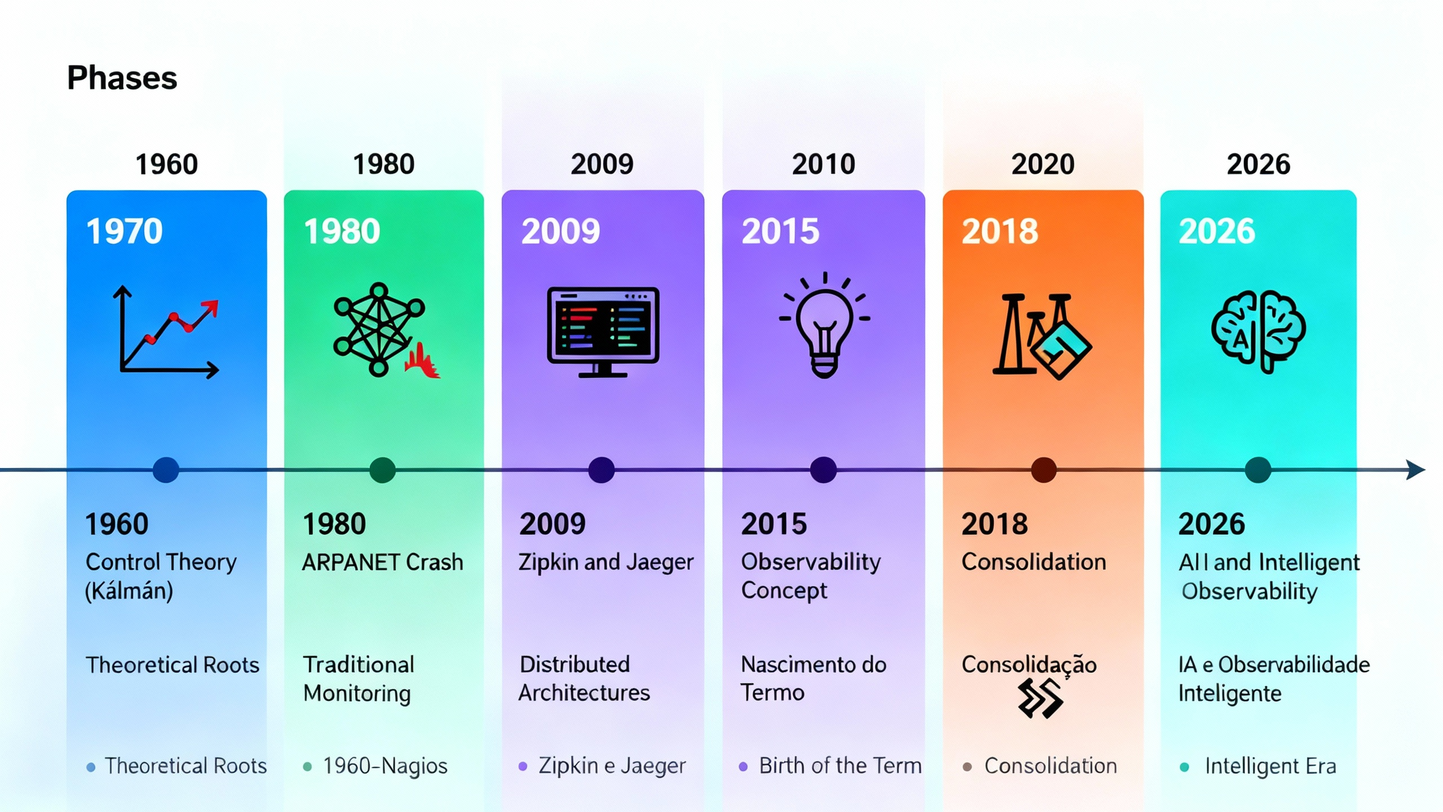
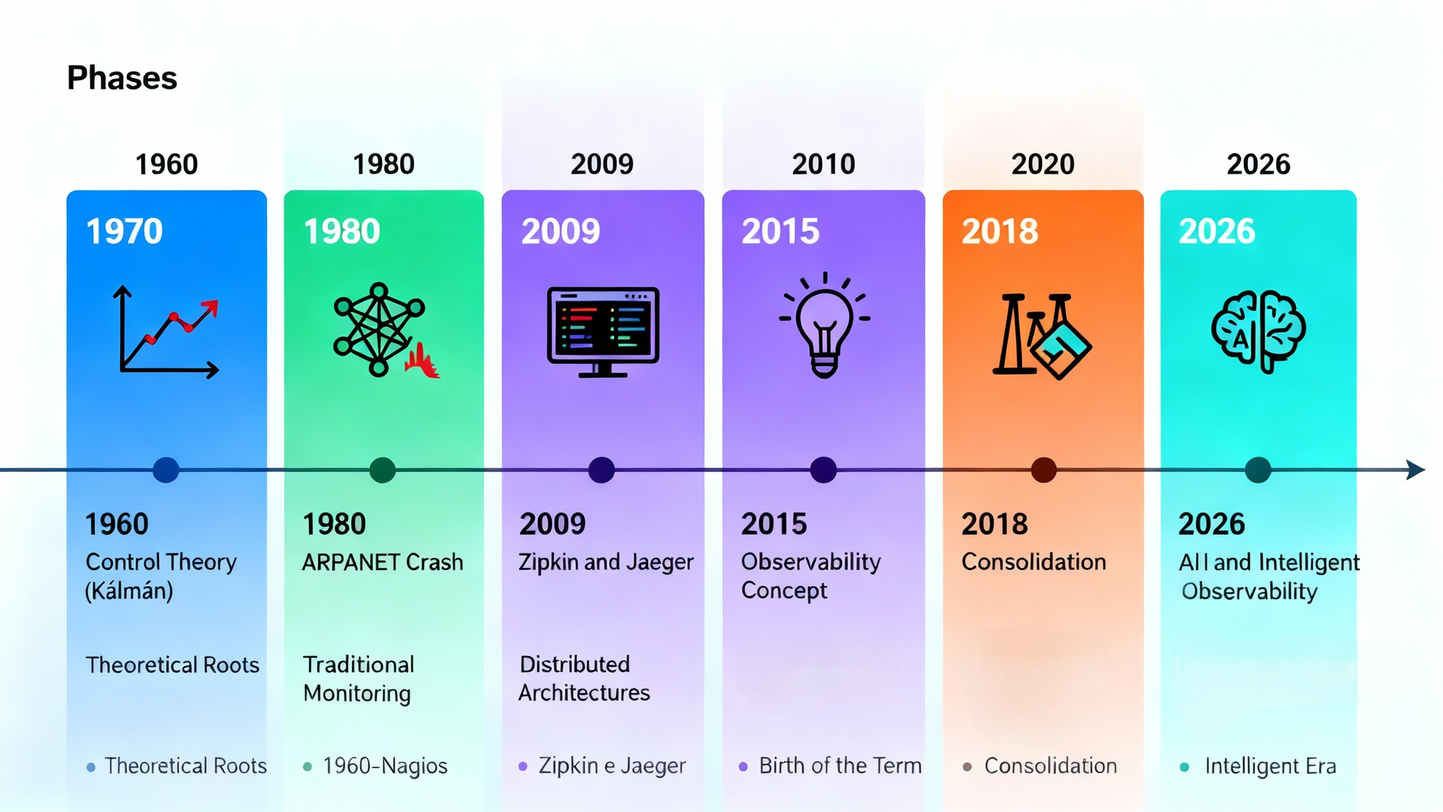
Reordenacao dos capitulos de acordo com as correcoes propostas.

Changed region(s): [[0.8125, 0.8125, 0.9688, 0.875], [0.5, 0.8125, 0.625, 0.875], [0.6562, 0.8125, 0.75, 0.875]]

diff --git a/chapters/03.obs_related_work/sections/01_methodology.tex b/chapters/03.obs_related_work/sections/01_methodology.tex
@@ -1,0 +1,67 @@
+\section{Rapid Review}
+\label{sec:rapid-review}
+
+To map how the industry and academia are addressing this analytical shift in Kubernetes-based environments, we conducted a Rapid Review. Rapid Reviews are secondary studies designed to provide timely research evidence to support decision-making in practical environments, offering a structured approach without the exhaustive timeline of a full Systematic Literature Review \cite{cartaxo_2018}.
+
+\subsection{Rapid Review Protocol}
+
+Rapid Reviews (RRs) are secondary studies designed to provide timely research evidence to support decision-making in practical environments \cite{cartaxo_2018}. RRs are conducted considering constraints inherent to practical environments, such as time and effort, thus delivering evidence more promptly and at lower costs, often communicated through accessible mediums.
+
+This approach is particularly suitable for our study, as it aims to swiftly synthesize scientific evidence on the rapidly evolving field of observability in cloud-native applications without compromising systematic rigor. An RR complements Systematic Reviews (SRs) by filling an essential gap in promoting evidence-based, practice-oriented software engineering for urgent research questions.
+
+Similar to SRs, this Rapid Review consisted of three main phases: planning, performing, and reporting. These phases are detailed in the following subsections.
+
+The execution of this Rapid Review, initially published as an independent study \cite{silva_2026}, served as the foundational investigative step for this thesis. It is imperative to highlight the structural alignment between the research questions of this review (RQ01--RQ04) and the Secondary Research Questions (SRQ) of this doctoral research:
+
+\begin{itemize}
+    \item \textbf{Theoretical Foundation (RQ01 and RQ03 $\rightarrow$ SRQ1):} The investigation into essential components (RQ01) and specific open-source tools (RQ03) provided the necessary literature backing to answer the thesis's SRQ1, effectively defining the required technological stack (Metrics, Logs, and Traces via CNCF tools) for the experimental environment.
+    \item \textbf{Gap Identification and Modeling (RQ02 and RQ04 $\rightarrow$ SRQ4):} The search for existing reference architectures (RQ02) and the subsequent identification of fragmentation gaps (RQ04) directly addressed the thesis's SRQ4. The realization that the industry lacks a unified framework culminated in the proposition of the Observability Maturity Model (OMM).
+\end{itemize}
+
+Ultimately, while this Rapid Review answers the theoretical constraints of the domain, it acts as the springboard for the practical contributions of this thesis (SRQ2 and SRQ3)—specifically, the instantiation of the PANOPTES architecture and its empirical validation.
+
+\subsection{Planning Phase}
+In the planning phase, we followed a detailed protocol for this Rapid Review, as established by Cartaxo \textit{et al.} \cite{cartaxo_2018}. This protocol encompassed the formulation of the research problem, the specific research questions (RQs), the search strategy, the selection criteria, and the data extraction procedure. The online tool Parsifal was utilized to systematically compile and manage all aspects of this protocol, ensuring transparency and adherence to a predefined methodology.
+
+Cloud-native environments, characterized by microservices, containers, and dynamic orchestration (e.g., Kubernetes), inherently generate an exponentially growing volume, variety, and velocity of telemetry data (logs, metrics, traces, and events). Managing, processing, and storing this vast amount of raw data becomes economically prohibitive and technically unfeasible. As highlighted by \cite{sridharan_2018}, this exponential growth in data significantly constrains a system's capacity to process information and to deal effectively with ``unknown unknowns,'' necessitating robust observability solutions.
+
+\subsection{Research Questions}
+The goal of this study is to identify the state of the art in observability of Kubernetes-based cloud-native applications and investigate the open-source tools and architectural patterns deployed to achieve the degree of observability proposed in the literature. To guide this Rapid Review, the following research questions were formulated:
+
+\begin{itemize}
+    \item \textbf{RQ01:} What are the essential components of an observability architecture for Kubernetes-based cloud-native applications?
+    \item \textbf{RQ02:} What reference architectures or observability frameworks for Kubernetes-based cloud-native environments have been proposed in the literature?
+    \item \textbf{RQ03:} What open-source tools are used or recommended to implement the different components of a Kubernetes-based observability architecture for cloud-native applications?
+    \item \textbf{RQ04:} What research gaps and future directions have been identified in the literature on open-source observability architectures for Kubernetes-based cloud-native applications?
+\end{itemize}
+
+\subsection{Performing Phase}
+The performing phase involved the systematic execution of the search and study selection procedures as defined in the planning phase. The literature search was primarily conducted using four leading scientific databases known for their extensive coverage in Computer Science and Software Engineering: IEEE Xplore, ACM Digital Library, SpringerLink, and ScienceDirect. These databases were selected for their relevance to cloud computing, distributed systems, and software observability. The temporal scope of the search was set from January 2018 to October 2025, with a focus on recent developments in the field.
+
+The search string, carefully constructed and adapted for each database's specific syntax using the filter full-text, was:
+
+\begin{quote}
+\textbf{Search String:} (``cloud native" OR ``cloud-native'' OR ``microservices") AND (``observability'' OR ``monitoring'' OR ``tracing'' OR ``logging'' OR ``metrics'' OR ``events'') AND (``kubernetes" OR ``k8s'') AND (``open source" OR ``open-source'')
+\end{quote}
+
+Initial searches identified seminal works such as \cite{kosinska_2023} and \cite{usman_2022}, which served as starting points for a complementary forward and backward citation analysis to identify additional relevant studies. Furthermore, an AI-powered literature discovery tool (Research Rabbit) was used to expand the literature search through intelligent recommendation algorithms, efficiently identifying related works and emerging topics based on the initial relevant papers.
+
+The identified studies underwent a multi-stage selection process based on predefined Inclusion and Exclusion Criteria. The study selection process consists of three distinct stages: initial screening, full-text review, and conflict resolution. Initially, titles and abstracts were reviewed by a single researcher to assess their potential relevance. In the second stage, studies that passed the initial screening proceeded to full-text review to confirm their direct relevance to the research questions and ensure full compliance with all criteria. In the third case, when uncertainty or disagreement arose during the full-text review, a second researcher was consulted to resolve conflicts and make a final decision on inclusion.
+
+Six inclusion criteria (IC) were used: \textbf{IC01} - Primary focus on Observability for software systems; \textbf{IC02} - Context related to cloud-native applications or microservices; \textbf{IC03} - Discussion of Kubernetes as the orchestration platform; \textbf{IC04} - Focus on open-source observability tools or architectures; \textbf{IC05} - Articles published from January 2018 to October 2025; \textbf{IC06} - Articles written in English.
+
+Similarly, six exclusion criteria (EC) were used: \textbf{EC01} - Duplicated papers; \textbf{EC02} - Gray literature (e.g., blog posts, pre-prints without peer review, company whitepapers); \textbf{EC03} - Focus exclusively on monitoring without addressing observability concepts; \textbf{EC04} - Studies where observability is only tangentially mentioned or not a primary contribution; \textbf{EC05} - Articles exclusively discussing proprietary or closed-source solutions without comparison to open-source alternatives; \textbf{EC06} - Books, book chapters, theses, dissertations, and short papers (e.g., extended abstracts, posters).
+
+For each selected study, data relevant to the research questions were systematically extracted by one researcher and validated by another using the Parsifal online tool. The following information was collected: \textbf{for RQ01:} Definitions of essential architectural components, layers of observability (e.g., data types, functional capabilities, instrumentation levels). \textbf{For RQ02}, descriptions of proposed architectural patterns, frameworks, or significant architectural considerations. \textbf{For RQ03}, the identification of specific open-source tools, their functionalities, and their application within Kubernetes-based environments. Finally, \textbf{for RQ04}, identified research challenges, gaps, and future directions related to open-source observability. This structured approach ensured consistency and scientific rigor in the data collection process.
+
+\subsection{Findings and Architectural Gaps}
+
+The rapid review revealed critical insights into the current landscape of cloud-native observability. Table \ref{tab:related_works} summarizes the primary studies analyzed and their respective identified gaps and proposed future works.
+
+\input{chapters/03.obs_related_work/tables/tbl-related-works}
+
+A significant finding from this review is the scarcity of widely adopted, formal reference architectures specifically tailored for the dynamic nature of Kubernetes. While academic research has proposed structured life cycles \cite{araujo_2024}, there is a distinct lack of proposals that adequately manage the simultaneous collection and correlation of metrics, logs, and traces in an integrated manner without excessive overhead.
+
+Instead, a ``de facto'' pattern has emerged driven by the integration of specific open-source tools. OpenTelemetry has become the industry standard for unified instrumentation \cite{kosinska_2023}. Meanwhile, specific tools dominate their respective pillars: Prometheus for metrics, Loki or Fluentd for logging, and Jaeger or Tempo for distributed tracing \cite{usman_2022}.
+
+However, the literature unanimously warns that these tools are rarely ``plug-and-play''. This fragmentation imposes significant operational complexity on engineering teams, who must manually manage configurations and data correlation, highlighting the critical gap that the PANOPTES reference architecture proposed in this thesis aims to bridge.

diff --git a/chapters/03.obs_related_work/tables/tbl-related-works.tex b/chapters/03.obs_related_work/tables/tbl-related-works.tex
@@ -1,0 +1,48 @@
+\begin{table*}[!ht]
+\centering
+\caption{Analysis of Related Works and Primary Studies Cited}
+\label{tab:related_works}
+\footnotesize
+% As larguras somam ~0.91\textwidth, deixando espaço para o padding (tabcolsep)
+\begin{tabular}{p{0.15\textwidth} p{0.38\textwidth} p{0.38\textwidth}}
+\toprule
+\textbf{Ref.} & \textbf{Research Gaps and Limitations found} & \textbf{Future Works} \\ \midrule
+
+\cite{usman_2022} &
+Absence of formal reference architecture, operational complexity of fragmentation, telemetry limitations, and scalability and correlation challenges. & 
+Intelligent Automation via AI/ML, Security integration, Enhancing Developer Experience, and Unified Observability Platforms. \\ \addlinespace
+
+\cite{araujo_2024} &
+Lack of holistic reference architectures, resource constraints (overhead) in fog nodes, and high heterogeneity of edge devices. & 
+Lightweight AI/ML for local anomaly detection (TinyML), standardized interoperability protocols, and adaptive observability frameworks. \\ \addlinespace
+
+\cite{zanatta_23} &
+Fragmented focus on metrics over logs/traces in 5G research, high memory/CPU overhead of standard CNOT stacks, and lack of standardized log structures. & 
+Integration of distributed tracing, research on geographically distributed B5G setups, scalability analysis of COTS ML, and observability in Open RAN components. \\ \addlinespace
+
+\cite{kosinska_2023} &
+Lack of unified terminology, insufficient practical automation via AI/ML (AIOps gap), and poor adaptation of tools for edge computing environments. & 
+Development of observability maturity models, deeper integration with eBPF for low-overhead visibility, and alignment with FinOps and GreenOps. \\ \addlinespace
+
+\cite{faseeha_2025} &
+Conceptual confusion between monitoring and observability pillars, lack of practical multi-pillar approaches, and difficulties in tracing failures in highly dynamic environments. & 
+Evolution of frameworks for modern deployment paradigms (service mesh, event-driven), automation of data analysis, and optimization of observability overhead. \\ \addlinespace
+
+\cite{han_2024} &
+Inconsistent problem definitions for RCA and high cloud-native heterogeneity across traces, metrics, and logs. & 
+Improving multi-modal data correlation at scale and enhancing Graph Attention Networks for dynamic topologies. \\ \addlinespace
+
+\cite{gomes_2025} &
+Difficulty in correlating multi-modal data (metrics, logs, traces), inadequacy of traditional monitoring for sophisticated CNAs, and complex root cause analysis (RCA) in distributed environments. & 
+Advanced ML-based resource management, automated diagnostic mechanisms integrated with auto-scaling, and research on low-overhead real-time data collection. \\ \addlinespace
+
+Wei et al. \cite{wei_2025} &
+Lack of a systematic bridge between desirable system qualities and the concrete cloud-native practices and tools used to achieve them, and the initial validation scope is limited (expert-based, not covering all contexts). &
+Provide mechanisms/interfaces to extend and continuously evolve the map (keeping practices/tools up to date) and perform broader validations beyond the initial expert review. \\ \addlinespace
+
+\cite{deng_2024} &
+Missing clear research roadmap for cloud-native lifecycles, high cognitive load for developers (DevEx), and insufficient real-time security observability. & 
+Integration of SecOps with performance telemetry, improvement of Developer Experience (DevEx), and observability optimization for serverless and green computing. \\ \bottomrule
+\end{tabular}
+  \par\medskip\ABNTEXfontereduzida\selectfont\textbf{Fonte:} Written by author (2026) \par\medskip
+\end{table*}

diff --git a/appendix/apendiceB.tex b/appendix/apendiceB.tex
@@ -9,7 +9,7 @@ This appendix presents the Ansible playbooks developed to automate the determini
 The following code presents the automated tasks for instantiating the target application (\textit{Online Boutique}) and the fault injection tool (\textit{Chaos Mesh}) in the vanilla Kubernetes cluster (Scenario 1). The injection of the \texttt{KUBECONFIG} environment variable was stipulated to ensure the correct authentication of the Helm package manager with the K3s API.
 
 % Importa o arquivo YAML diretamente do diretorio do cenario 1
-\lstinputlisting[language=bash, caption={Ansible playbook for the automated deployment of the Vanilla Scenario.}, label={lst:deploy-baseline}]{chapters/05.experiment/code/scenario01/deploy-baseline.yml}
+\lstinputlisting[language=bash, caption={Ansible playbook for the automated deployment of the Vanilla Scenario.}, label={lst:deploy-baseline}]{chapters/06.experiment/code/scenario01/deploy-baseline.yml}
 
 \section{PANOPTES Deployment Playbook (deploy-panoptes.yml)}
 \label{sec:playbook-panoptes}
@@ -17,4 +17,4 @@ The following code presents the automated tasks for instantiating the target app
 Building upon the baseline, the following playbook defines the Infrastructure as Code (IaC) required to deploy the complete PANOPTES observability architecture (Scenario 2). In addition to the target application and fault injection mechanism, it automates the provisioning of the telemetry stack, including the OpenTelemetry Operator, Prometheus, Loki, and Tempo. This approach guarantees that the observability agents and their respective data backends are deployed deterministically before any fault injection or overhead measurement takes place.
 
 % Importa o arquivo YAML diretamente do diretorio do cenario 2
-\lstinputlisting[language=bash, caption={Ansible playbook for the automated deployment of the PANOPTES Observability Scenario.}, label={lst:deploy-panoptes}]{chapters/05.experiment/code/scenario02/deploy-panoptes.yml}
+\lstinputlisting[language=bash, caption={Ansible playbook for the automated deployment of the PANOPTES Observability Scenario.}, label={lst:deploy-panoptes}]{chapters/06.experiment/code/scenario02/deploy-panoptes.yml}

diff --git a/chapters/03.obs_related_work/related.tex b/chapters/03.obs_related_work/related.tex
@@ -1,0 +1,22 @@
+\chapter{STATE OF THE ART: A RAPID REVIEW ON CLOUD-NATIVE OBSERVABILITY}
+\label{chap:related-work}
+
+As detailed in Chapter \ref{chap:observability} and illustrated in Figure \ref{fig:cna-obs-evo}, the landscape of cloud-native observability has undergone significant evolution over the years. While numerous tools have been developed to tackle isolated observability concerns, there is a distinct lack of cohesive efforts to unify them into a comprehensive architecture. The most mature initiative to date is driven by the Cloud Native Computing Foundation (CNCF) \cite{cncf_2026}, which accepted the OpenTelemetry project in 2019 and formally promoted it to a graduated maturity level in 2026.
+
+\begin{figure}[ht]
+    \centering
+    \includegraphics[width=1.0\linewidth]{images/observability/cloud_native_observability_evolution.png}
+    \caption{Cloud Native Observability Evolution}
+    \label{fig:cna-obs-evo}
+\end{figure}
+
+To understand this panoram and ensure the scientific rigor required for a doctoral thesis and to systematically map the solution space regarding cloud-native observability, a Rapid Review (RR) of the literature was conducted. 
+
+Unlike traditional ad-hoc literature reviews, a Rapid Review provides a structured, replicable protocol to synthesize evidence promptly without compromising systematic rigor \cite{cartaxo_2018}. By mapping the state of the art, this chapter identifies the exact boundaries of current open-source implementations and theoretically justifies the architectural gaps that this thesis aims to bridge.
+
+This chapter details the methodology applied, analyzes the primary studies identified across four major scientific databases, proposes an Observability Maturity Model (OMM) based on the identified gaps, and explicitly positions the proposed PANOPTES architecture within the current research landscape.
+
+\input{chapters/03.obs_related_work/sections/01_methodology}
+\input{chapters/03.obs_related_work/sections/02_analysis_studies}
+\input{chapters/03.obs_related_work/sections/03_observatility_maturity_model}
+\input{chapters/03.obs_related_work/sections/04_panoptes_positioning}

diff --git a/chapters/04.cloud_computing/subsections/k8s/instrumentation_levels.tex b/chapters/04.cloud_computing/subsections/k8s/instrumentation_levels.tex
@@ -1,0 +1,14 @@
+\subsection{Instrumentation Levels}
+\label{subsec:instrumentation-levels}
+
+Considering the existence of multiple levels of instrumentation, it is possible to implement the instrumentation process across several components, i.e., from the application level to the platform level, where Kubernetes (k8s) is installed.
+
+The first level is referred to as the code/application level. In this level, instrumentation is implemented directly in the application's source code. Developers use language-specific libraries or SDKs (Software Development Kits) (e.g., OpenTelemetry SDK, Micrometer, Prometheus Client Libraries) to define and expose metrics, create structured logs, and initiate/propagate tracing spans.
+
+The second level is the platform level. This level abstracts network instrumentation away from the application. A sidecar proxy (e.g., Envoy, Linkerd) is injected into each application pod. This proxy intercepts all network traffic (incoming and outgoing) from the application container. Service Mesh (e.g., Istio) manages and configures these proxies to collect telemetry in a standardized way.
+
+The third level is the host/node level. A software agent runs as a DaemonSet (one instance per cluster node). This agent collects metrics and logs from the node's operating system and running containers, typically reading information from virtual file systems such as Prometheus Node Exporter and cAdvisor.
+
+The final level is the kernel level. The extended Berkeley Packet Filter (eBPF) is a Linux kernel technology that enables programs to run safely and efficiently in a sandbox within the kernel itself. Without altering application or kernel code, these programs can hook into low-level instrumentation points, such as system calls, network functions, and process scheduler events. Therefore, it can be classified as an instrumentation at the kernel level in Linux \cite{rise_2023}.
+
+In the next section, we will explore the importance and the benefits of declaring infrastructure using a declarative approach.

diff --git a/chapters/04.cloud_computing/cloud.tex b/chapters/04.cloud_computing/cloud.tex
@@ -3,10 +3,10 @@
 
 The transition from monolithic systems to cloud-native paradigms \cite{gannon_2017} serves as the primary catalyst for the observability challenges discussed in the previous chapter. Ideally, Cloud Computing is not just a deployment target but a dynamic operational model characterized by elasticity, on-demand self-service, and resource pooling \cite{mell_grance_2011}. However, these characteristics introduce distinct layers of abstraction and transience that obscure system behavior \cite{jamshidi_2018}. To properly contextualize the environment in which the PANOPTES architecture operates, this chapter establishes the theoretical foundations of Cloud-Native computing. It examines the pivotal role of Kubernetes as the \textit{de facto} operating system for the cloud \cite{luksa_2018, burns_2016} and analyzes Infrastructure as Code (IaC) as the mechanism for managing this complexity \cite{morris_2016}. Understanding these components is a prerequisite to addressing the research questions regarding fault diagnosis and architectural integration.
 
-\input{chapters/03.cloud_computing/sections/cloud-context}
+\input{chapters/04.cloud_computing/sections/cloud-context}
 
-\input{chapters/03.cloud_computing/sections/kubernetes}
+\input{chapters/04.cloud_computing/sections/kubernetes}
 
-\input{chapters/03.cloud_computing/sections/iac}
+\input{chapters/04.cloud_computing/sections/iac}
 
-\input{chapters/03.cloud_computing/sections/chaos-engineering.tex}
+\input{chapters/04.cloud_computing/sections/chaos-engineering.tex}

diff --git a/chapters/01.introduction/problem.tex b/chapters/01.introduction/problem.tex
@@ -18,6 +18,8 @@ To provide a comprehensive answer to this overarching question, the following se
 
 \textbf{Secondary Research Question 3} \textit{What is the impact of the proposed architecture on the effectiveness of fault detection and diagnosis compared to a standard (Baseline) Kubernetes installation?}
 
+\textbf{Secondary Research Question 4} \textit{How can the evolutionary stages of observability in cloud-native environments be classified, and what are the primary gaps in current open-source implementations?}
+
 \subsection{Research Objectives}
 
 To answer the research questions, the main objective of this thesis is to \textbf{propose and validate} an observability reference architecture for cloud-native applications on Kubernetes.
@@ -29,3 +31,5 @@ Specifically, the specific objectives are:
 \textbf{SO2} \textit{To \textbf{design and implement} an open-source reference architecture instance that integrates metrics, logs, and traces with minimal resource overhead.}
 
 \textbf{SO3} \textit{To \textbf{evaluate} the proposed architecture's effectiveness in diagnosing faults through controlled experiments (Chaos Engineering), comparing it against a Kubernetes baseline.}
+
+\textbf{S04} \textit{To \textbf{conduct} a Rapid Review of the state-of-the-art to identify current architectural gaps and propose an Observability Maturity Model (OMM) that categorizes the evolutionary stages of telemetry management.}

diff --git a/chapters/01.introduction/statement.tex b/chapters/01.introduction/statement.tex
@@ -8,5 +8,5 @@ The primary goal of this research is to advance the state of the art in cloud-na
     
     \item \textbf{An Open-Source Implementation Artifact:} A concrete instantiation of the PANOPTES architecture using Infrastructure as Code (Vagrant, Ansible, and Helm). This artifact operationalizes tools such as OpenTelemetry, Prometheus, Loki, and Tempo in a reproducible, deterministic environment, providing a ready-to-use blueprint for practitioners and researchers.
     
-    \item \textbf{Empirical Evidence via Chaos Engineering:} A quantitative evaluation of the proposed architecture. Through controlled experiments involving fault injection, this study provides empirical data on the actual resource overhead introduced by the observability stack and its measurable impact on the Mean Time to Detect (MTTD) anomalies, establishing a scientific baseline for future comparisons.
+    \item \textbf{Empirical Evidence via Chaos Engineering:} A quantitative evaluation of the proposed architecture. Through controlled experiments involving fault injection, this study provides empirical data on the actual resource overhead introduced by the observability stack and its measurable impact on the Mean Time to Detect (MTTD) anomalies, establishing a scientific baseline for future comparisons.    
 \end{itemize}

diff --git a/chapters/04.cloud_computing/sections/kubernetes.tex b/chapters/04.cloud_computing/sections/kubernetes.tex
@@ -5,10 +5,8 @@ Kubernetes is a Greek word meaning ``helmsman'' or ``pilot'' \cite{luksa_2018}, 
 
 In this scenario, observability transcends traditional monitoring. It is defined as the property of a system that allows its internal state to be understood from its external outputs (telemetry), enabling the correlation of signals to identify "unknown unknowns" \cite{hausenblas_2023,creane_2022}. For applications orchestrated via Kubernetes, a reference architecture should address the collection, processing, and correlation of data across multiple layers: infrastructure (nodes), orchestrator (K8s), and application (microservices).
 
-\input{chapters/03.cloud_computing/subsections/k8s/k8s-arch}
-
-\input{chapters/03.cloud_computing/subsections/k8s/obs-layer}
-
-\input{chapters/03.cloud_computing/subsections/k8s/k8s-patterns}
-
-\input{chapters/03.cloud_computing/subsections/k8s/pillars-obs-k8s}
+\input{chapters/04.cloud_computing/subsections/k8s/k8s-arch}
+\input{chapters/04.cloud_computing/subsections/k8s/obs-layer}
+\input{chapters/04.cloud_computing/subsections/k8s/k8s-patterns}
+\input{chapters/04.cloud_computing/subsections/k8s/pillars-obs-k8s}
+\input{chapters/04.cloud_computing/subsections/k8s/instrumentation_levels}

diff --git a/chapters/04.cloud_computing/sections/cloud-context.tex b/chapters/04.cloud_computing/sections/cloud-context.tex
@@ -5,8 +5,8 @@ The implementation of a robust observability architecture is intrinsically linke
 
 Cloud computing is not a monolithic concept; it presents a spectrum of abstractions that trade control for convenience. In this section, we delineate the fundamental Service Models defined by the literature, explicitly justifying the adoption of the Infrastructure as a Service (IaaS) model for this thesis. This choice is critical as it grants the necessary access to low-level components (such as the kernel and network interfaces) required for deep instrumentation. Furthermore, exploring the Cloud-Native paradigm involves analyzing how its principles of immutability and distribution introduce the very complexity that necessitates the observability solutions proposed in later chapters.
 
-\input{chapters/03.cloud_computing/subsections/cloud/service-models.tex}
+\input{chapters/04.cloud_computing/subsections/cloud/service-models.tex}
 
-\input{chapters/03.cloud_computing/subsections/cloud/iaas.tex}
+\input{chapters/04.cloud_computing/subsections/cloud/iaas.tex}
 
-\input{chapters/03.cloud_computing/subsections/cloud/cna.tex}
+\input{chapters/04.cloud_computing/subsections/cloud/cna.tex}

diff --git a/main.tex b/main.tex
@@ -1,4 +1,3 @@
-%% abtex2-modelo-trabalho-academico.tex, v-1.7.1 laurocesar
 %% Copyright 2012-2013 by abnTeX2 group at http://abntex2.googlecode.com/ 
 %%
 %% This work may be distributed and/or modified under the
@@ -120,16 +119,16 @@
   }%
 }
 
-\usepackage{etoolbox}
+%\usepackage{etoolbox}
 % Impede que longtable incremente o contador de tabelas em glossários
-\AtBeginEnvironment{theglossary}{%
-  \let\oldthetable\thetable%
-  \renewcommand{\thetable}{}%
-  \addtocounter{table}{-1}%
-}
-\AtEndEnvironment{theglossary}{%
-  \let\thetable\oldthetable%
-}
+%\AtBeginEnvironment{theglossary}{%
+%  \let\oldthetable\thetable%
+%  \renewcommand{\thetable}{}%
+%  \addtocounter{table}{-1}%
+%}
+%\AtEndEnvironment{theglossary}{%
+%  \let\thetable\oldthetable%
+%}
 
 % -----------------------------------------------------------
 % lista de abreviaturas e siglas
@@ -321,8 +320,6 @@
 % \setcounter{page}{13}
 \setcounter{tocdepth}{2}
 %\setcounter{table}{0}
-
-
 
 
 % ----------------------------------------------------------

diff --git a/chapters/05.methodology/sections/evaluation-strategy.tex b/chapters/05.methodology/sections/evaluation-strategy.tex
@@ -43,7 +43,7 @@ We postulate that the observability stack introduces an overhead, but it must be
 
 To test these hypotheses, we adopt a \textbf{2x2 Factorial Design}, crossing two independent variables: \textbf{Architecture Type} (Vanilla vs. PANOPTES) and \textbf{System State} (Idle vs. Chaos). This results in four distinct experimental scenarios, as detailed in Table \ref{tab:scenarios}.
 
-\input{chapters/04.methodology/tables/scenarios}
+\input{chapters/05.methodology/tables/scenarios}
 
 The detailed configuration for each scenario is defined as follows:
 \begin{itemize}
@@ -58,7 +58,7 @@ The detailed configuration for each scenario is defined as follows:
 
 To quantify the results, we utilize two categories of metrics, as defined in Table \ref{tab:metrics}.
 
-\input{chapters/04.methodology/tables/metrics.tex}
+\input{chapters/05.methodology/tables/metrics.tex}
 
 \subsection{Statistical Analysis and Bias Mitigation}
 \label{sec:statistical_analysis}
